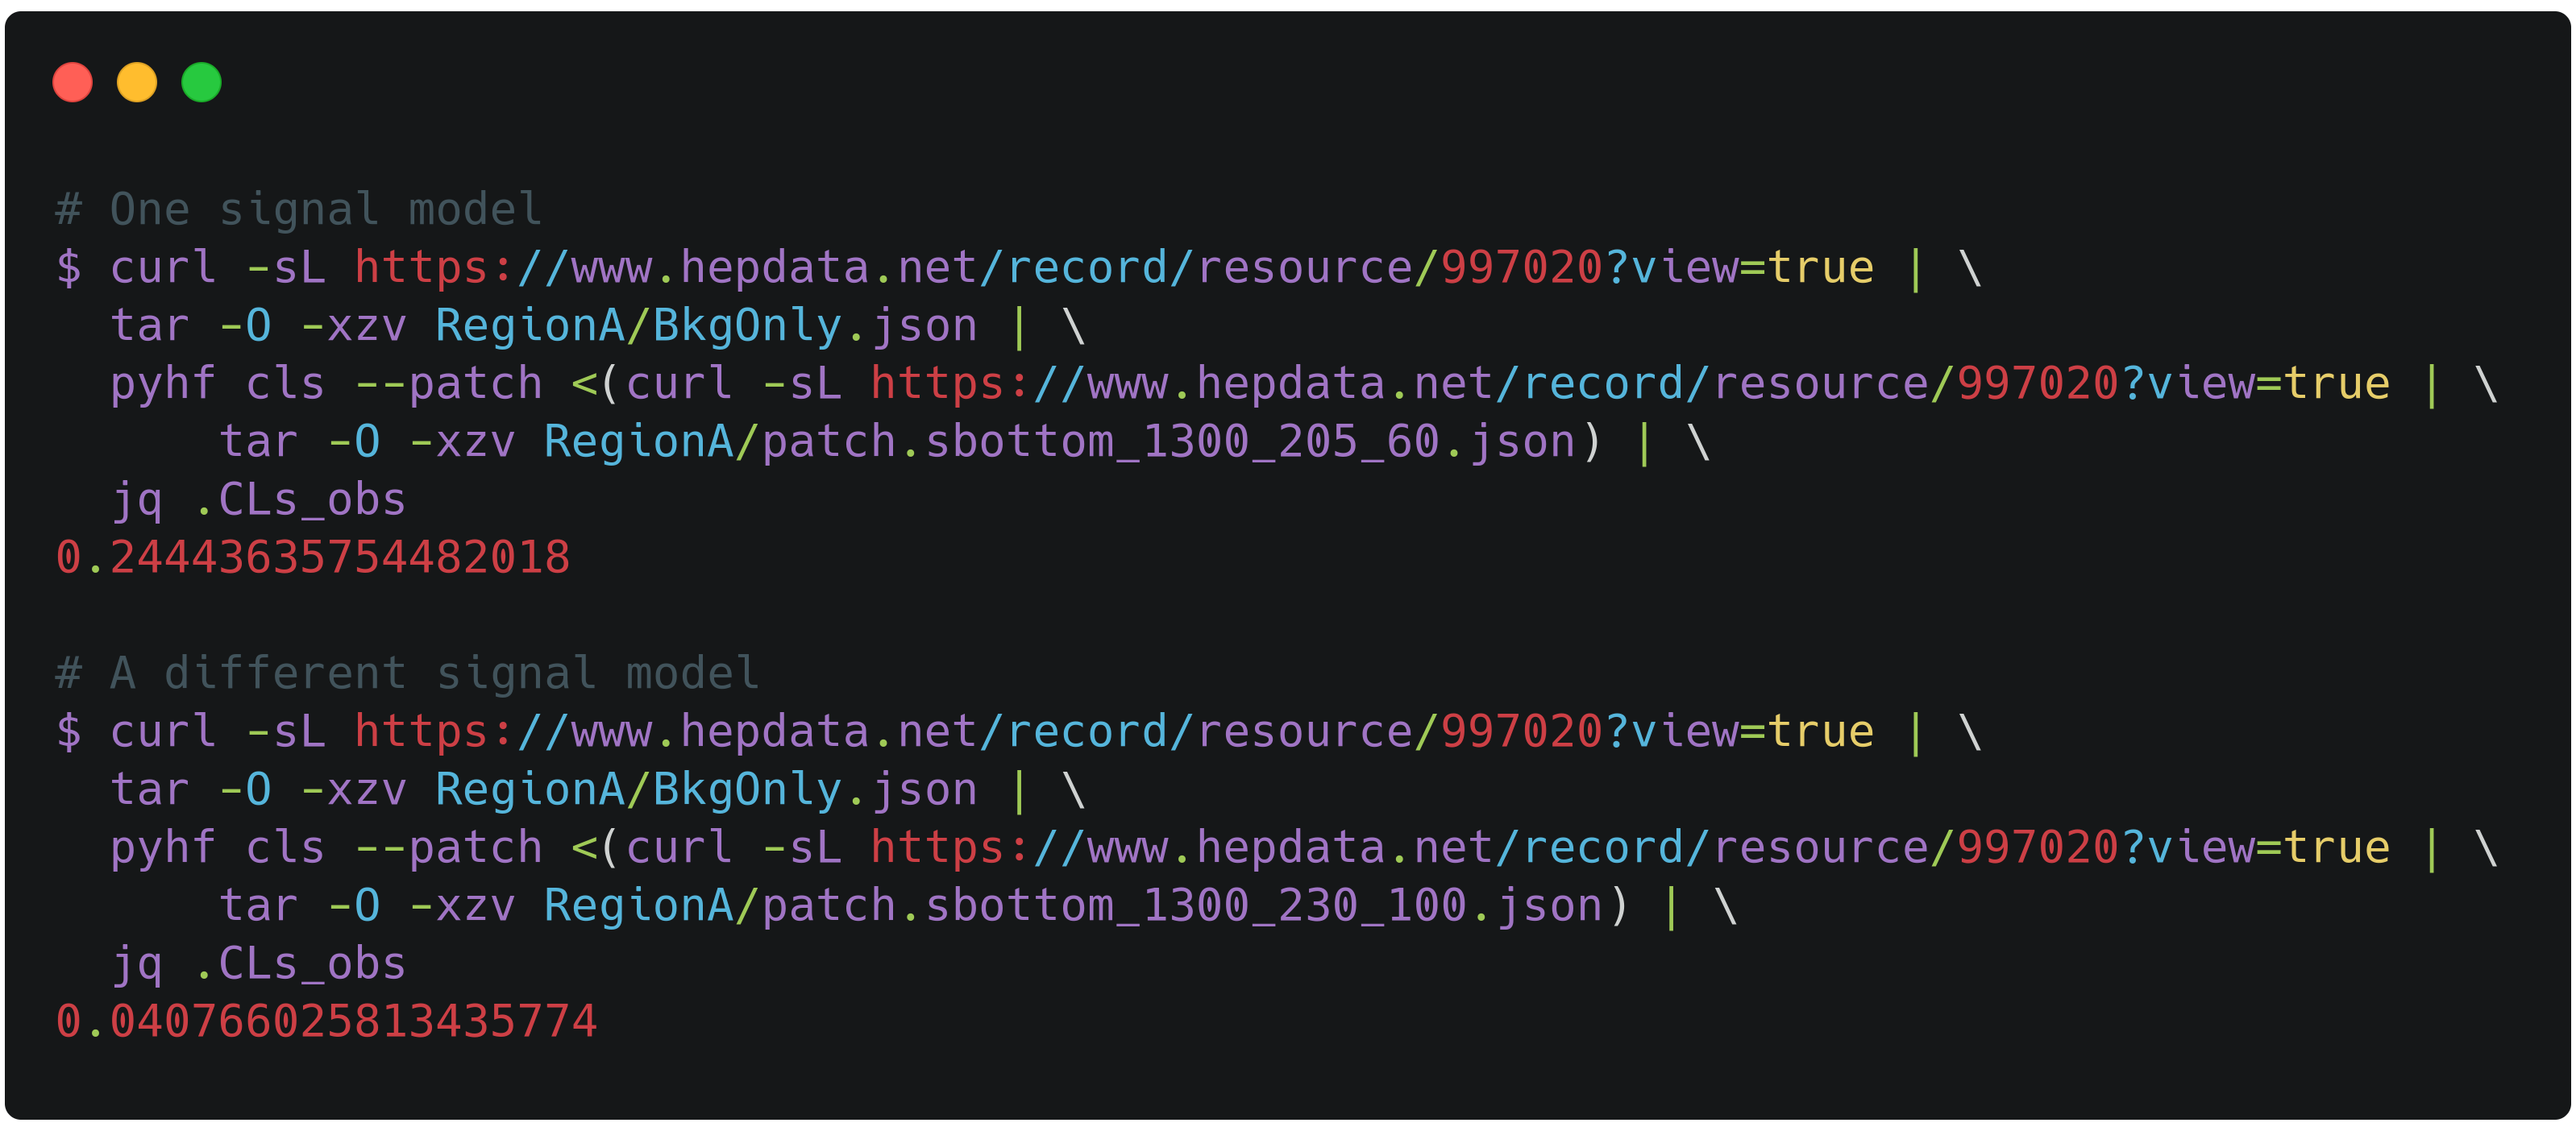
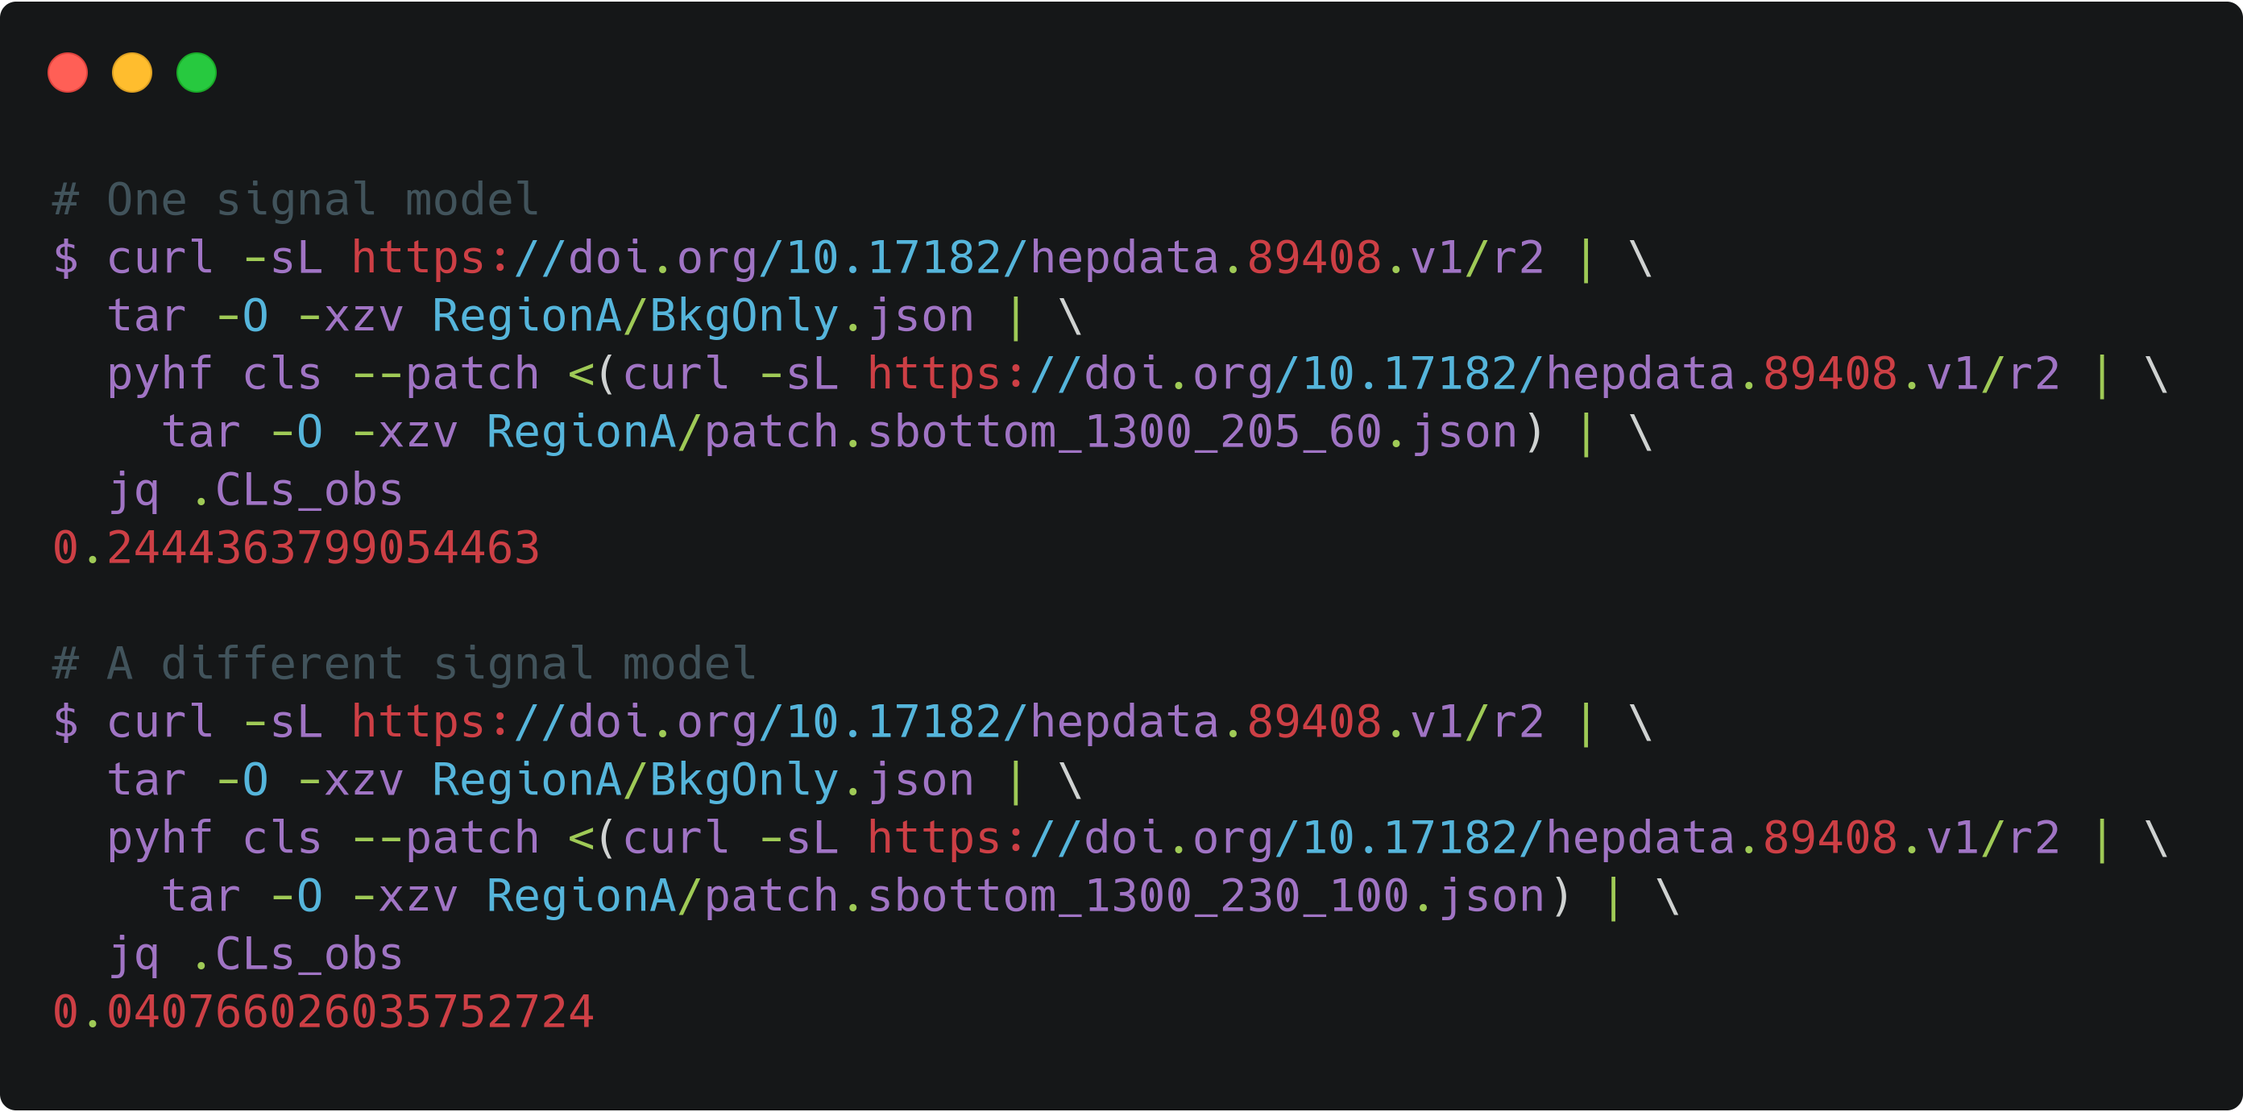
Use HEPData DOI for sbottom likelihood curl example (#8)
* c.f. https://doi.org/10.17182/hepdata.89408.v1/r2

diff --git a/talk.md b/talk.md
@@ -177,7 +177,7 @@ $$
 
 - Background-only model JSON stored
 - Signal models stored as JSON Patch files
-- Together are able to fully preserve the full model
+- Together are able to fully preserve the full model (with own DOI! .width-20[[![DOI](https://img.shields.io/badge/DOI-10.17182%2Fhepdata.89408.v1%2Fr2-blue.svg)](https://doi.org/10.17182/hepdata.89408.v1/r2)] )
 
 [.center.width-70[![HEPData_likelihoods](figures/HEPData_likelihoods.png)]](https://www.hepdata.net/record/ins1748602)
 
@@ -186,9 +186,9 @@ $$
 
 - Background-only model JSON stored
 - Signal models stored as JSON Patch files
-- Together are able to fully preserve the full model
+- Together are able to fully preserve the full model (with own DOI! .width-20[[![DOI](https://img.shields.io/badge/DOI-10.17182%2Fhepdata.89408.v1%2Fr2-blue.svg)](https://doi.org/10.17182/hepdata.89408.v1/r2)] )
 
-.center.width-90[![HEPData_streamed_likelihoods](figures/carbon_HEPData_streamed_likelihoods.png)]
+.center.width-80[![HEPData_streamed_likelihoods](figures/carbon_HEPData_streamed_likelihoods.png)]
 
 ---
 # Likelihood serialization and reproduction
@@ -269,22 +269,22 @@ $ pyhf cls example.json --patch new_signal.json | jq .CLs_obs
 
 ```
 # One signal model
-$ curl -sL https://bit.ly/33TVZ5p | \
+$ curl -sL https://doi.org/10.17182/hepdata.89408.v1/r2 | \
   tar -O -xzv RegionA/BkgOnly.json | \
-  pyhf cls --patch <(curl -sL https://bit.ly/33TVZ5p | \
-      tar -O -xzv RegionA/patch.sbottom_1300_205_60.json) | \
+  pyhf cls --patch <(curl -sL https://doi.org/10.17182/hepdata.89408.v1/r2 | \
+    tar -O -xzv RegionA/patch.sbottom_1300_205_60.json) | \
   jq .CLs_obs
-0.24443635754482018
+0.2444363799054463
 ```
 
 ```
 # A different signal model
-$ curl -sL https://bit.ly/33TVZ5p | \
+$ curl -sL https://doi.org/10.17182/hepdata.89408.v1/r2 | \
   tar -O -xzv RegionA/BkgOnly.json | \
-  pyhf cls --patch <(curl -sL https://bit.ly/33TVZ5p | \
-      tar -O -xzv RegionA/patch.sbottom_1300_230_100.json) | \
+  pyhf cls --patch <(curl -sL https://doi.org/10.17182/hepdata.89408.v1/r2 | \
+    tar -O -xzv RegionA/patch.sbottom_1300_230_100.json) | \
   jq .CLs_obs
-0.040766025813435774
+0.040766026035752724
 ```
 
 ---
